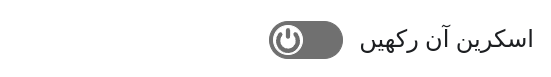
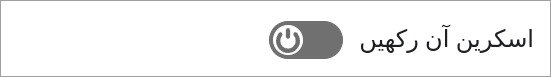
Add a border to the image itself.
Github strips border styling unfortunately.

Changed region(s): [[0.0, 0.0, 1.0, 1.0]]

diff --git a/README.md b/README.md
@@ -65,7 +65,7 @@ For example, using the [`dir` global attribute](https://developer.mozilla.org/en
 </div>
 ```
 
-<img src= "doc/images/rtl.png" alt="Rendering RTL" style="border: 1px solid grey;">
+![Rendering RTL](doc/images/rtl.png)
 
 ## Browser support
 
